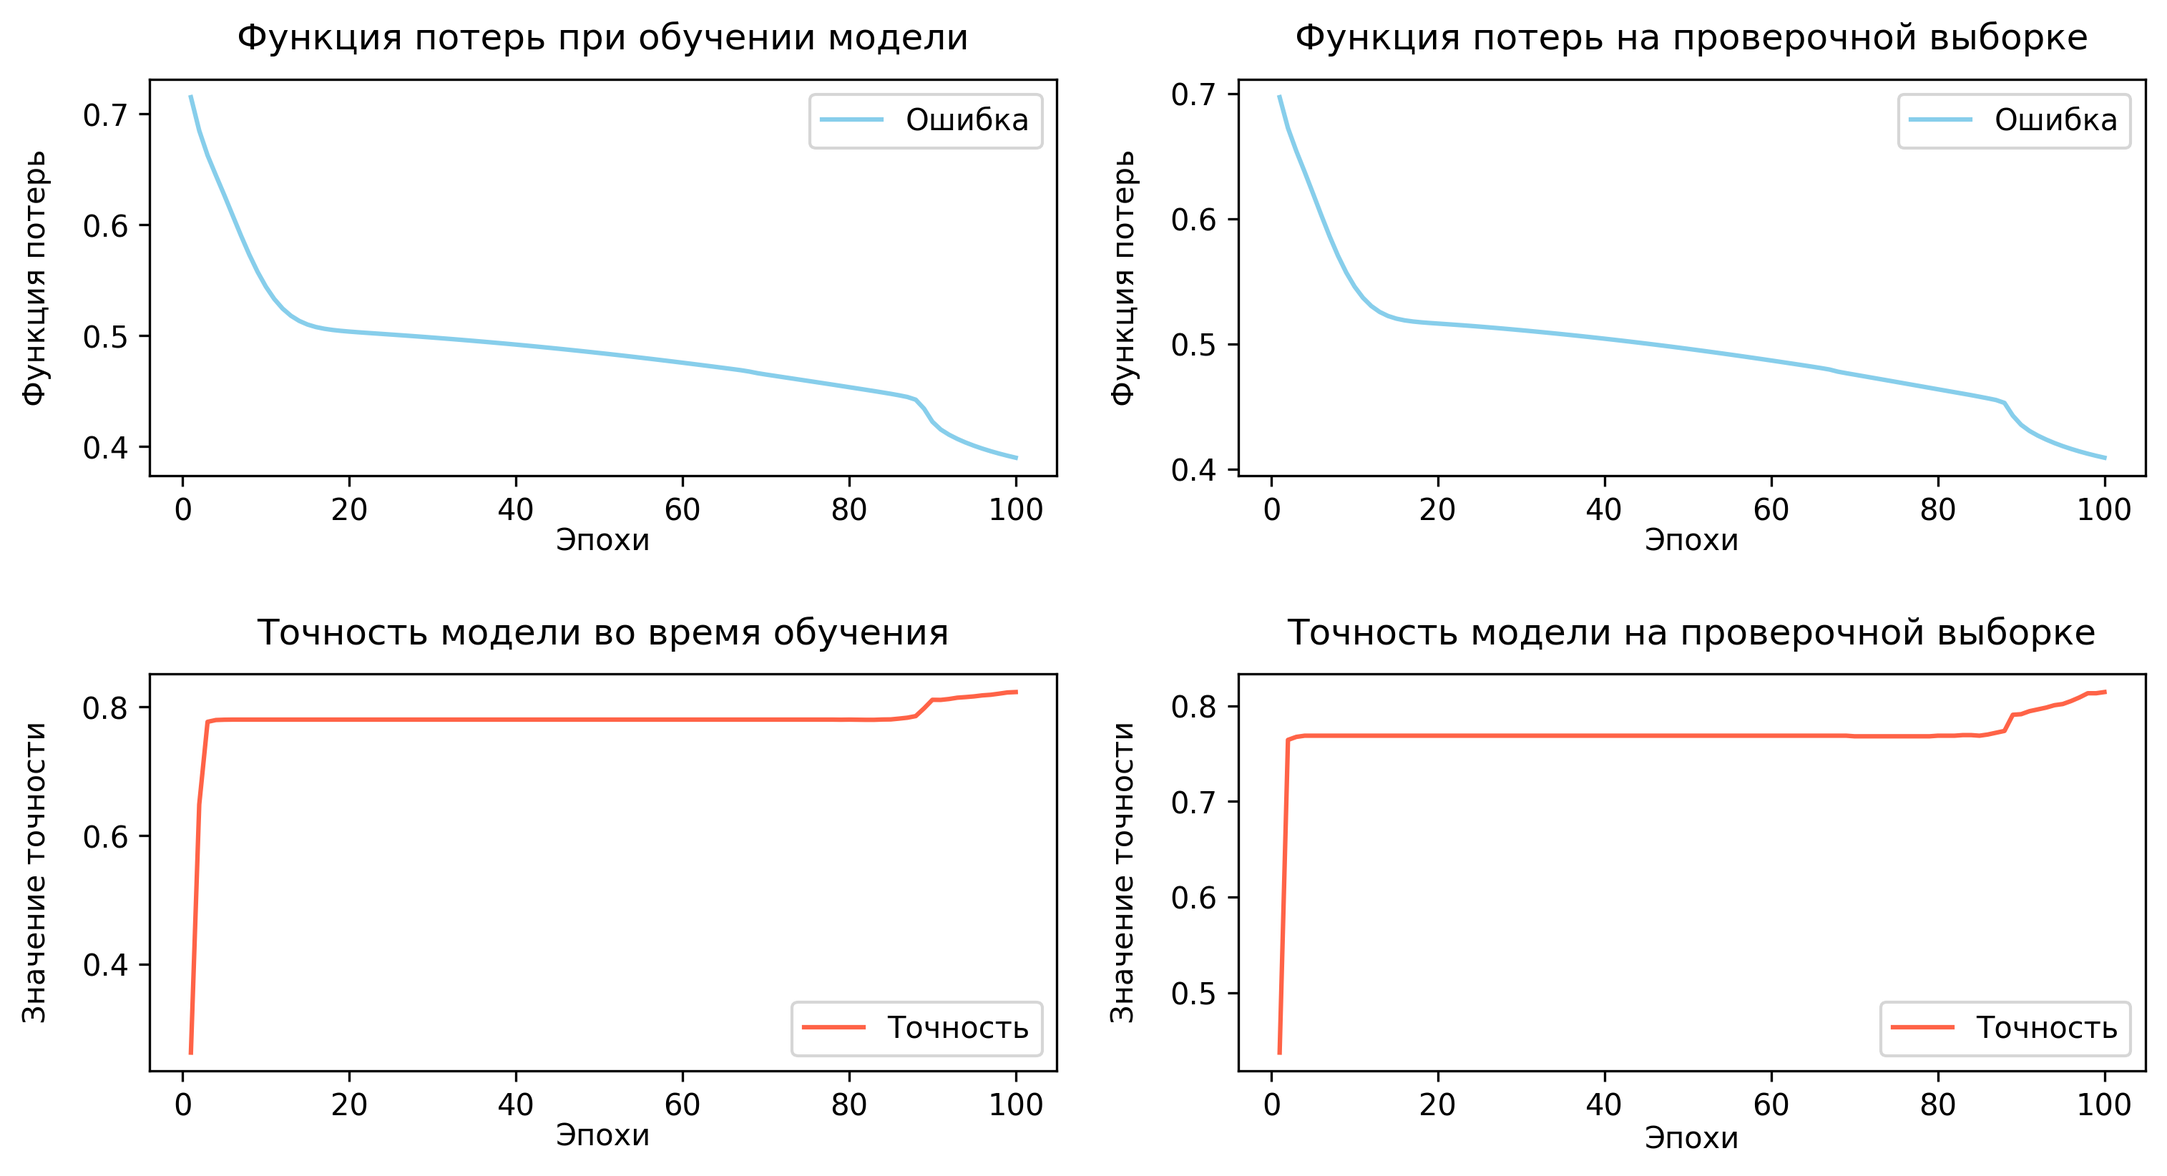
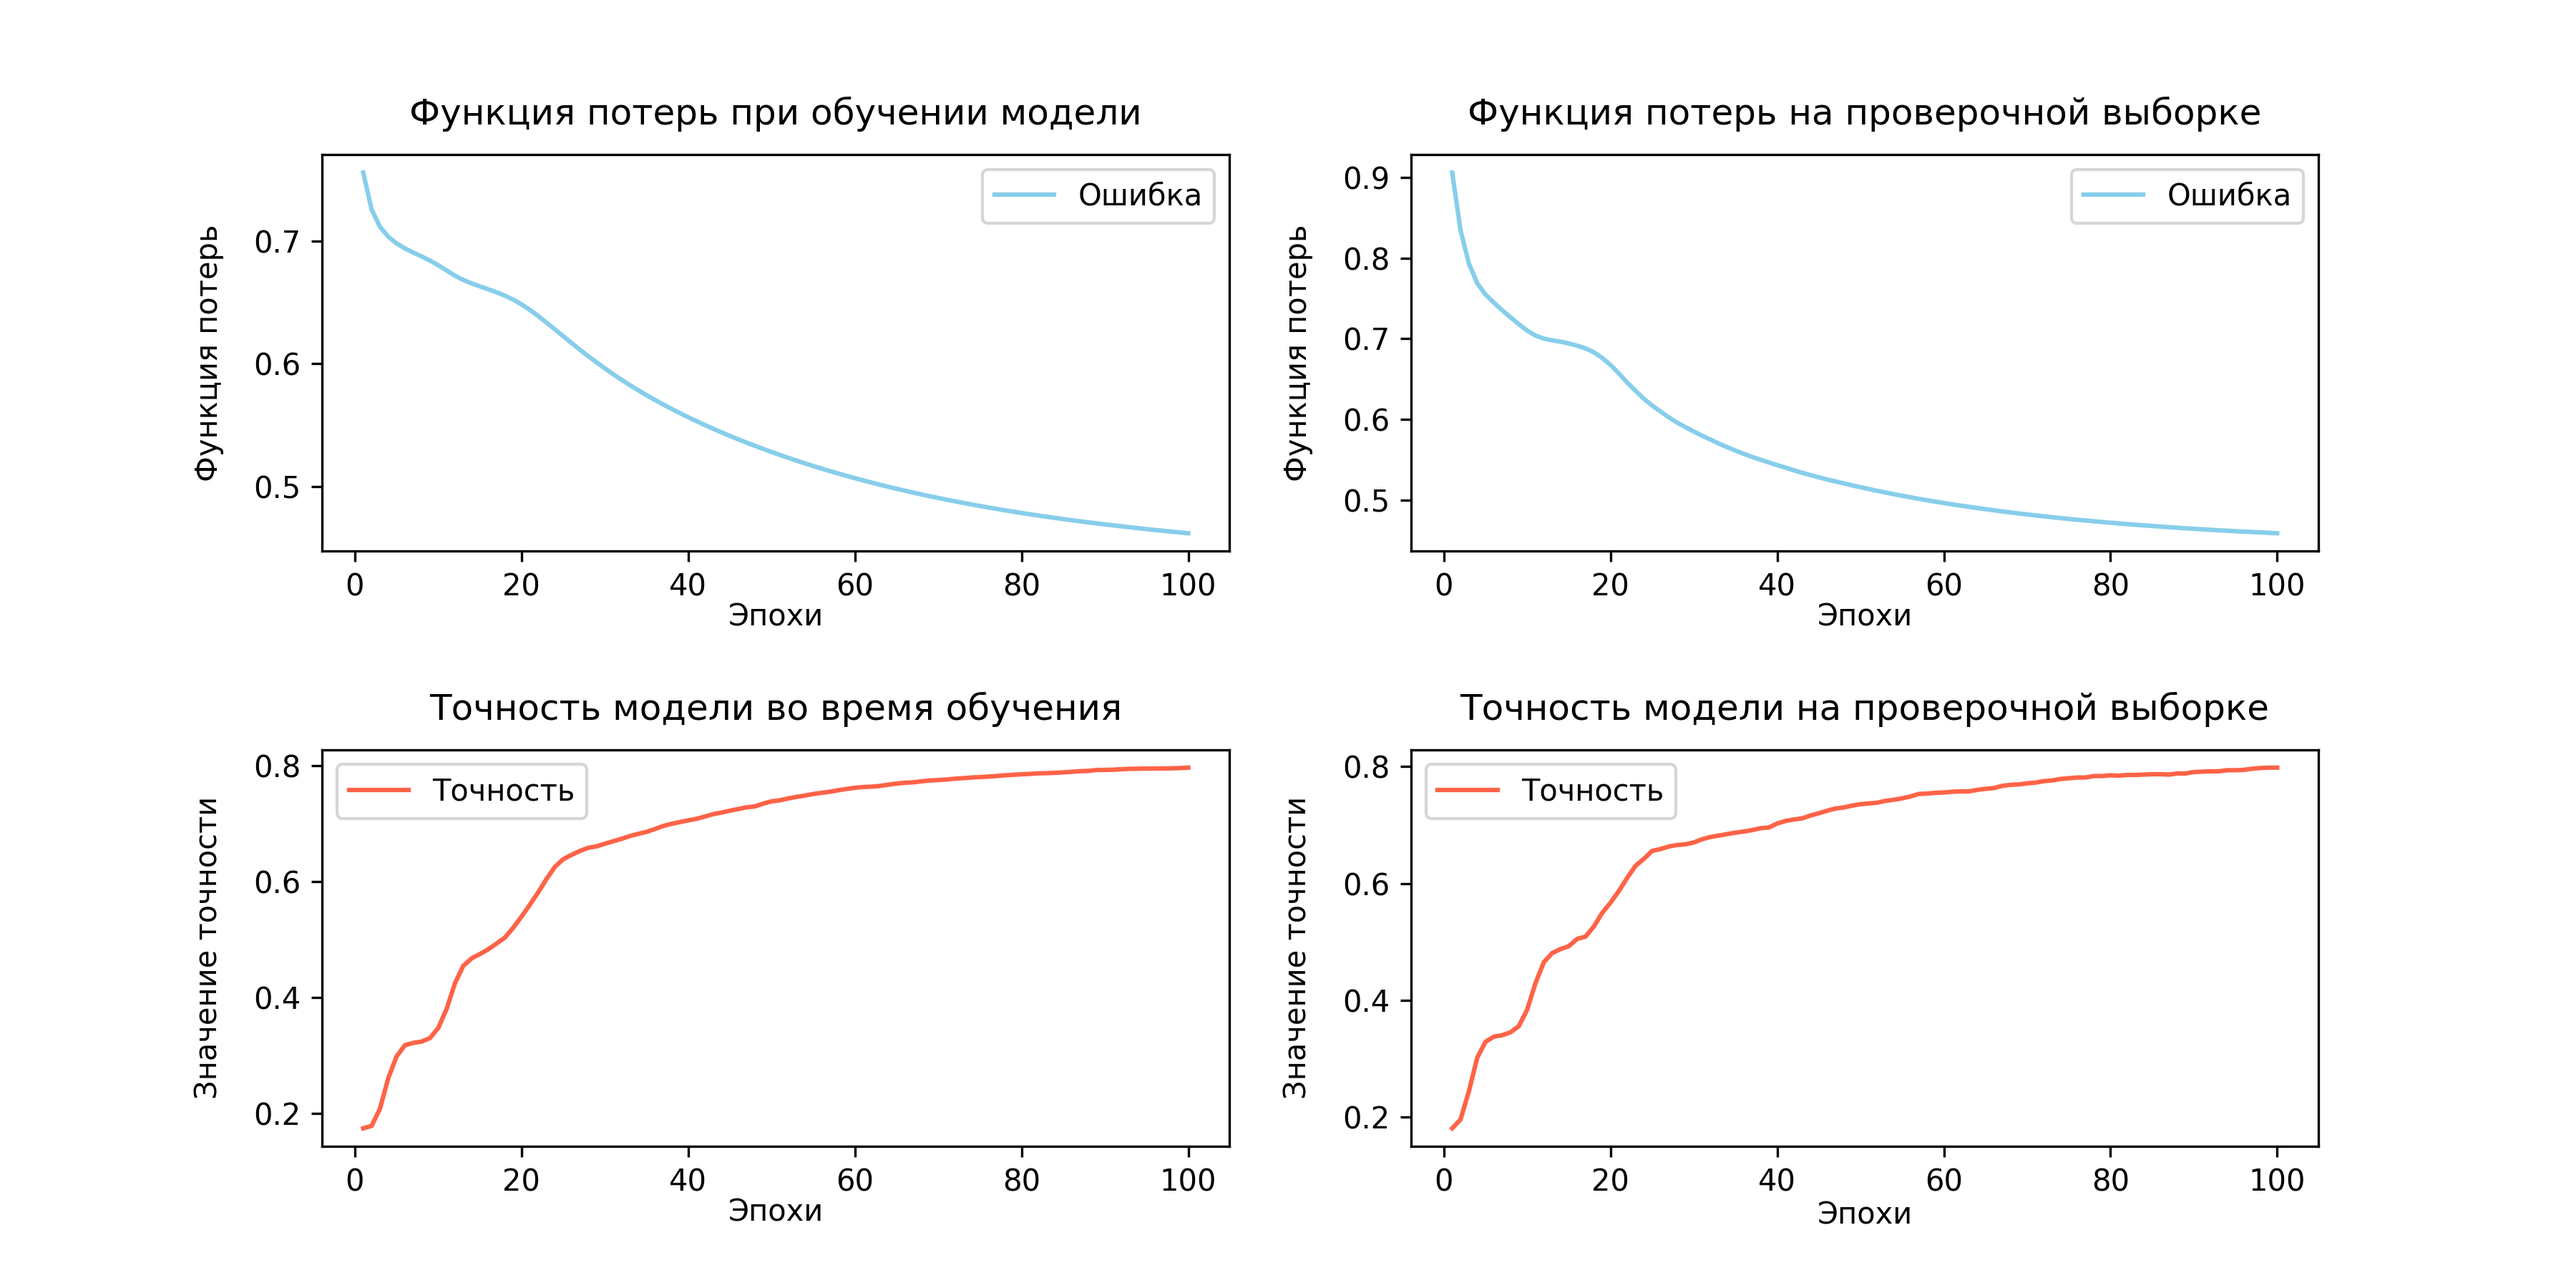
filter ferritin data

diff --git a/train.py b/train.py
@@ -2,16 +2,15 @@ import pandas as pd
 from keras.api.utils import set_random_seed
 from keras.api.models import load_model
 import json
+import random
 
 from utils.plots import plot_loss
 from utils.models import create_model, train_model, evaluate_model
 from utils.processing import preparate_data
 
-train_model_mode = True  # обучаем модель или загружаем уже обученную
 repeats = 3  # кол-во повторений обучения
 # Установим seed для воспроизводимости результатов:
-seed = 42
-seeds = [42, 42, 42]
+seeds = [random.randint(0, 2**32 - 1) for _ in range(repeats)]
 
 # Прочитаем данные:
 df = pd.read_csv("data/ferritin.csv", sep=",")
@@ -21,64 +20,51 @@ print(df.dtypes)
 
 targets = ["ferritin"]
 
-if train_model_mode:
-    list_statistics = []
-    for i in range(repeats):
-        set_random_seed(seeds[i])
-        class_weight, x_train, y_train, x_test, y_test = preparate_data(
-            df, targets, seeds[i]
-        )
-        model = create_model()
-        history_data = train_model(
-            model,
-            x_train,
-            y_train,
-            class_weight,
-            isSave=True,
-            filename="ferritin-10000-3",
-        )
-        # Визуализируем кривые обучения:
-        plot_loss(history_data, f"history_100-epochs_ferritin-10000-3")
+list_statistics = []
+for i in range(repeats):
+    set_random_seed(seeds[i])
+    class_weight, x_train, y_train, x_test, y_test = preparate_data(
+        df, targets, seeds[i]
+    )
+    model = create_model()
+    history_data = train_model(
+        model,
+        x_train,
+        y_train,
+        class_weight,
+        isSave=True,
+        filename="ferritin-10000",
+    )
+    # Визуализируем кривые обучения:
+    plot_loss(history_data, f"history_100-epochs_ferritin-10000")
 
-        y_train_predict = model.predict(x_train)
-        y_predict = model.predict(x_test)
-        print(f"Shape of y train predict: {y_train_predict.shape}")
-        print(f"Shape of y predict: {y_predict.shape}")
-
-        statistics = evaluate_model(
-            y_train,
-            y_test,
-            y_train_predict,
-            y_predict,
-            "roc_curve-ferritin-10000-3",
-            False,
-        )
-        list_statistics.append(statistics)
-
-    avg_statistics = {}
-    for key in list_statistics[0].keys():
-        results = list(map(lambda s: s[key], list_statistics))
-        avg = sum(results) / len(results)
-        avg = round(avg, 2)
-        if results[0].is_integer():
-            results = list(map(int, results))
-        else:
-            results = list(map(lambda x: round(x, 2), results))
-        field_name = f"avg_{key}"
-        avg_statistics[field_name] = avg
-        avg_statistics[f"list_{key}"] = results
-
-    with open("./output/results.json", "w") as file:
-        json.dump(avg_statistics, file, ensure_ascii=False, indent=4)
-else:
-    class_weight, x_train, y_train, x_test, y_test = preparate_data(df, targets, seed)
-    # Загрузим уже обученную модель:
-    model = load_model("saved_models/ferritin-10000-3.keras")
     y_train_predict = model.predict(x_train)
     y_predict = model.predict(x_test)
     print(f"Shape of y train predict: {y_train_predict.shape}")
     print(f"Shape of y predict: {y_predict.shape}")
 
-    evaluate_model(
-        y_train, y_test, y_train_predict, y_predict, "roc_curve-ferritin-10000-3", True
+    statistics = evaluate_model(
+        y_train,
+        y_test,
+        y_train_predict,
+        y_predict,
+        "roc_curve-ferritin-10000",
+        False,
     )
+    list_statistics.append(statistics)
+
+avg_statistics = {}
+for key in list_statistics[0].keys():
+    results = list(map(lambda s: s[key], list_statistics))
+    avg = sum(results) / len(results)
+    avg = round(avg, 2)
+    if results[0].is_integer():
+        results = list(map(int, results))
+    else:
+        results = list(map(lambda x: round(x, 2), results))
+    field_name = f"avg_{key}"
+    avg_statistics[field_name] = avg
+    avg_statistics[f"list_{key}"] = results
+
+with open("./output/results.json", "w") as file:
+    json.dump(avg_statistics, file, ensure_ascii=False, indent=4)

diff --git a/filter_data.py b/filter_data.py
@@ -1,0 +1,62 @@
+import pandas as pd
+
+labels = [
+    "gender",
+    "age",
+    "hgb",
+    "rbc",
+    "mcv",
+    "plt",
+    "wbc",
+    "neut",
+    "lymph",
+    "eo",
+    "baso",
+    "mono",
+    "ferritin",
+]
+
+lab = pd.read_csv("./data/lab.csv", sep=",", dtype={"sampleno": str, "hgb": float})
+print(lab.head())
+print(lab.shape)
+
+ferritin = (
+    lab[(lab["ferritin"].notna()) & (lab["ferritin"] > 0)]
+    .reset_index(drop=True)
+    .filter(items=labels)
+)
+print(ferritin.head())
+print(ferritin.shape)
+
+z_score = 1.96
+conf_intervals = {}
+for label in labels:
+    if label == "gender":
+        continue
+    conf_intervals[label] = {}
+    data = ferritin[label]
+    mean_value = data.mean()
+    std_value = data.std()
+    low, high = (
+        mean_value - z_score * std_value,
+        mean_value + z_score * std_value,
+    )
+    conf_intervals[label]["low"] = low
+    conf_intervals[label]["high"] = high
+
+for label in labels:
+    if label == "gender":
+        continue
+    low, high = conf_intervals[label]["low"], conf_intervals[label]["high"]
+    ferritin = ferritin[(ferritin[label] >= low) & (ferritin[label] <= high)]
+
+ferritin.reset_index(drop=True, inplace=True)
+print(ferritin.head())
+print(ferritin.shape)
+ferritin.to_csv("./data/ferritin-72k.csv", sep=",", index=False)
+
+columns_to_check = ferritin.drop(columns=["gender"]).columns
+
+filtered_df = ferritin[(ferritin[columns_to_check] <= 0).any(axis=1)]
+print(filtered_df.head())
+print(filtered_df.shape)

diff --git a/load_model.py b/load_model.py
@@ -1,0 +1,29 @@
+import pandas as pd
+from keras.api.utils import set_random_seed
+from keras.api.models import load_model
+
+from utils.models import evaluate_model
+from utils.processing import preparate_data
+
+# Установим seed для воспроизводимости результатов:
+seed = 42
+set_random_seed(seed)
+targets = ["ferritin"]
+
+# Прочитаем данные:
+df = pd.read_csv("data/ferritin.csv", sep=",")
+print(df.head())
+print(df.shape)
+print(df.dtypes)
+
+class_weight, x_train, y_train, x_test, y_test = preparate_data(df, targets, seed)
+# Загрузим уже обученную модель:
+model = load_model("saved_models/ferritin-10000-3.keras")
+y_train_predict = model.predict(x_train)
+y_predict = model.predict(x_test)
+print(f"Shape of y train predict: {y_train_predict.shape}")
+print(f"Shape of y predict: {y_predict.shape}")
+
+evaluate_model(
+    y_train, y_test, y_train_predict, y_predict, "roc_curve-ferritin-10000-4", True
+)

diff --git a/utils/processing.py b/utils/processing.py
@@ -12,7 +12,7 @@ def preparate_data(
 
     y = df.filter(items=targets).to_numpy().flatten().astype("float64")
 
-    y = np.array(list(map(lambda x: (1 if x < 15.0 else 0), y)), dtype="int64")
+    y = np.array(list(map(lambda x: (1 if x < 12.0 else 0), y)), dtype="int64")
     print(f"Shape of y: {y.shape}")
     print(f"Доля пациентов с низким ферритином: {100 * sum(y) / len(y)}%")
 

diff --git a/utils/models.py b/utils/models.py
@@ -7,7 +7,7 @@ from keras.api.layers import Input, Dense
 from keras.api.models import Model
 
 from utils.callbacks import early_stopping, reduce_lr
-from utils.plots import plot_roc_curve, plot_loss
+from utils.plots import plot_roc_curve
 from utils.statistic import find_optimal_threshold, calculate_confusion_matrix
 
 

diff --git a/test.py b/test.py
@@ -1,3 +1,6 @@
-from datetime import datetime
+import pandas as pd
 
-print(int(datetime.now().timestamp()))
+df = pd.read_csv("./data/ferritin-72k.csv", sep=",", dtype={"hgb": float})
+print(df.head())
+print(df.shape)
+print(df.dtypes)
